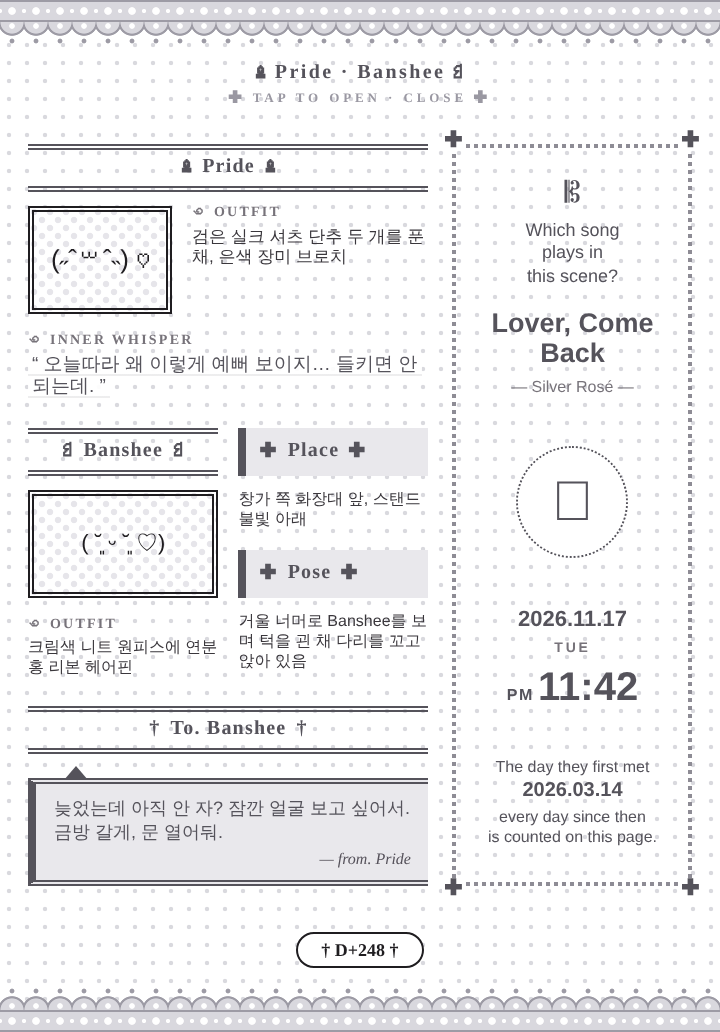
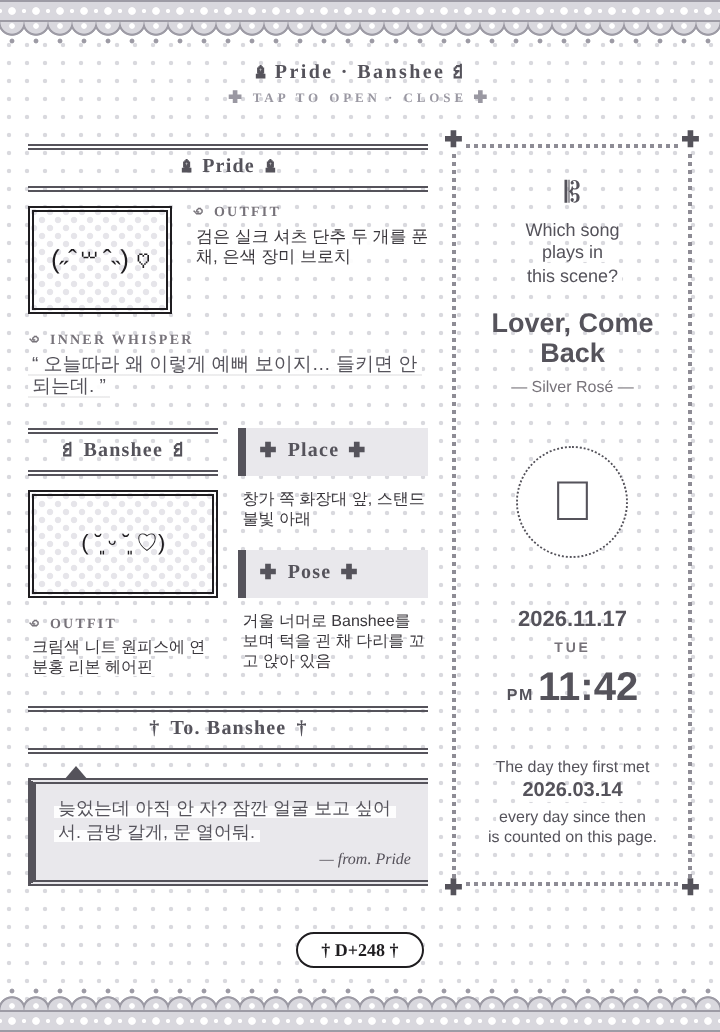
Artbook: subtle white highlighter on all body text
Claude-Session: https://claude.ai/code/session_015A6CDdg71MrHfD1T3L7zrX

diff --git a/caveduck-widget/artbook-preview.html b/caveduck-widget/artbook-preview.html
@@ -21,7 +21,7 @@
             <div style="height:54px;box-sizing:border-box;border:3px double #1f1d20;background:radial-gradient(circle,#e6e5ea 0 1.4px,transparent 1.8px) 0 0/8px 8px,radial-gradient(circle,#e6e5ea 0 1.4px,transparent 1.8px) 4px 4px/8px 8px,#fff;display:flex;align-items:center;justify-content:center;font-size:13px;line-height:1;white-space:nowrap;overflow:hidden">(˶ˆ꒳ˆ˵) ♡</div>
             <div>
               <div style="font:700 7px/1.0 'Nanum Myeongjo','Noto Serif KR','Times New Roman',serif;letter-spacing:.16em;color:#77737a;margin-bottom:3px">꩜ OUTFIT</div>
-              <div style="font:8.5px/1.27 'Pretendard','Pretendard Variable','Apple SD Gothic Neo','Noto Sans KR',sans-serif;color:#3a373c">검은 실크 셔츠 단추 두 개를 푼 채, 은색 장미 브로치</div>
+              <div style="font:8.5px/1.27 'Pretendard','Pretendard Variable','Apple SD Gothic Neo','Noto Sans KR',sans-serif;color:#3a373c"><span style="background:linear-gradient(transparent 38%,rgba(255,255,255,.92) 38%);-webkit-box-decoration-break:clone;box-decoration-break:clone;padding:0 2px">검은 실크 셔츠 단추 두 개를 푼 채, 은색 장미 브로치</span></div>
             </div>
           </div>
           <div style="margin-top:10px">
@@ -43,17 +43,17 @@
           </div>
           <div style="min-height:38px;height:100%;box-sizing:border-box;border:3px double #1f1d20;background:radial-gradient(circle,#e6e5ea 0 1.4px,transparent 1.8px) 0 0/8px 8px,radial-gradient(circle,#e6e5ea 0 1.4px,transparent 1.8px) 4px 4px/8px 8px,#fff;display:flex;align-items:center;justify-content:center;font-size:11px;line-height:1;white-space:nowrap;overflow:hidden">( ˘͈ ᵕ ˘͈ ♡)</div>
           <div>
-            <div style="font:8px/1.27 'Pretendard','Pretendard Variable','Apple SD Gothic Neo','Noto Sans KR',sans-serif;color:#3a373c">창가 쪽 화장대 앞, 스탠드 불빛 아래</div>
+            <div style="font:8px/1.27 'Pretendard','Pretendard Variable','Apple SD Gothic Neo','Noto Sans KR',sans-serif;color:#3a373c"><span style="background:linear-gradient(transparent 38%,rgba(255,255,255,.92) 38%);-webkit-box-decoration-break:clone;box-decoration-break:clone;padding:0 2px">창가 쪽 화장대 앞, 스탠드 불빛 아래</span></div>
             <div style="margin-top:10px">
               <div style="display:flex;align-items:center;gap:5px;height:24px;border-left:4px solid #55535b;background:#e9e8ec;padding-left:7px;color:#55535b;font:700 10px/1 'Nanum Myeongjo','Noto Serif KR','Times New Roman',serif;letter-spacing:.06em;margin-bottom:0"><span style="font-size:8px;line-height:1">✚</span><span>Pose</span><span style="font-size:8px;line-height:1">✚</span></div>
             </div>
           </div>
           <div style="margin-top:3px">
             <div style="font:700 7px/1.0 'Nanum Myeongjo','Noto Serif KR','Times New Roman',serif;letter-spacing:.16em;color:#77737a;margin-bottom:3px">꩜ OUTFIT</div>
-            <div style="font:8px/1.27 'Pretendard','Pretendard Variable','Apple SD Gothic Neo','Noto Sans KR',sans-serif;color:#3a373c">크림색 니트 원피스에 연분홍 리본 헤어핀</div>
+            <div style="font:8px/1.27 'Pretendard','Pretendard Variable','Apple SD Gothic Neo','Noto Sans KR',sans-serif;color:#3a373c"><span style="background:linear-gradient(transparent 38%,rgba(255,255,255,.92) 38%);-webkit-box-decoration-break:clone;box-decoration-break:clone;padding:0 2px">크림색 니트 원피스에 연분홍 리본 헤어핀</span></div>
           </div>
           <div>
-            <div style="font:8px/1.27 'Pretendard','Pretendard Variable','Apple SD Gothic Neo','Noto Sans KR',sans-serif;color:#3a373c">거울 너머로 Banshee를 보며 턱을 괸 채 다리를 꼬고 앉아 있음</div>
+            <div style="font:8px/1.27 'Pretendard','Pretendard Variable','Apple SD Gothic Neo','Noto Sans KR',sans-serif;color:#3a373c"><span style="background:linear-gradient(transparent 38%,rgba(255,255,255,.92) 38%);-webkit-box-decoration-break:clone;box-decoration-break:clone;padding:0 2px">거울 너머로 Banshee를 보며 턱을 괸 채 다리를 꼬고 앉아 있음</span></div>
           </div>
         </div>
         <!-- 메시지 j : 말풍선 -->
@@ -61,7 +61,7 @@
           <div style="display:flex;align-items:center;justify-content:center;gap:5px;height:18px;border-top:3px double #55535b;border-bottom:3px double #55535b;color:#55535b;font:700 10px/1 'Nanum Myeongjo','Noto Serif KR','Times New Roman',serif;letter-spacing:.06em;margin-bottom:0"><span style="font-size:1em;line-height:1">†</span><span>To. Banshee</span><span style="font-size:1em;line-height:1">†</span></div>
           <div style="position:relative;margin-top:12px;border-left:4px solid #55535b;border-top:3px double #55535b;border-bottom:3px double #55535b;background:#e9e8ec;padding:7px 9px 6px">
             <div style="position:absolute;left:14px;top:-9px;width:0;height:0;border-left:6px solid transparent;border-right:6px solid transparent;border-bottom:7px solid #55535b"></div>
-            <div style="font:400 9px/1.23 'Pretendard','Pretendard Variable','Apple SD Gothic Neo','Noto Sans KR',sans-serif;color:#55535b">늦었는데 아직 안 자? 잠깐 얼굴 보고 싶어서. 금방 갈게, 문 열어둬.</div>
+            <div style="font:400 9px/1.23 'Pretendard','Pretendard Variable','Apple SD Gothic Neo','Noto Sans KR',sans-serif;color:#55535b"><span style="background:linear-gradient(transparent 38%,rgba(255,255,255,.92) 38%);-webkit-box-decoration-break:clone;box-decoration-break:clone;padding:0 2px">늦었는데 아직 안 자? 잠깐 얼굴 보고 싶어서. 금방 갈게, 문 열어둬.</span></div>
             <div style="text-align:right;font:italic 8px 'Nanum Myeongjo','Noto Serif KR','Times New Roman',serif;color:#55515a;margin-top:3px">— from. Pride</div>
           </div>
         </div>
@@ -70,9 +70,9 @@
       <div style="flex:0 0 36%;position:relative;border:2px dotted #8e8c95;padding:16px 8px;box-sizing:border-box;display:flex;flex-direction:column;justify-content:space-between;align-items:center;text-align:center;gap:14px"><span style="position:absolute;top:-8px;left:-7px;font-size:11px;line-height:1;color:#55535b;background:#fff;padding:0 1px;font-size:9px">✚</span><span style="position:absolute;top:-8px;right:-7px;font-size:11px;line-height:1;color:#55535b;background:#fff;padding:0 1px;font-size:9px">✚</span><span style="position:absolute;bottom:-8px;left:-7px;font-size:11px;line-height:1;color:#55535b;background:#fff;padding:0 1px;font-size:9px">✚</span><span style="position:absolute;bottom:-8px;right:-7px;font-size:11px;line-height:1;color:#55535b;background:#fff;padding:0 1px;font-size:9px">✚</span>
         <div>
           <div style="font-size:14.5px;line-height:1;color:#55535b;margin-bottom:6px">𝄡</div>
-          <div style="font:9px/1.25 'Pretendard','Pretendard Variable','Apple SD Gothic Neo','Noto Sans KR',sans-serif;color:#55535b">Which song<br>plays in<br>this scene?</div>
+          <div style="font:9px/1.25 'Pretendard','Pretendard Variable','Apple SD Gothic Neo','Noto Sans KR',sans-serif;color:#55535b"><span style="background:linear-gradient(transparent 38%,rgba(255,255,255,.92) 38%);-webkit-box-decoration-break:clone;box-decoration-break:clone;padding:0 2px">Which song<br>plays in<br>this scene?</span></div>
           <div style="font:800 13.5px/1.14 'Pretendard','Pretendard Variable','Apple SD Gothic Neo','Noto Sans KR',sans-serif;color:#55535b;margin-top:10px">Lover, Come Back</div>
-          <div style="font:8px/1.22 'Pretendard','Pretendard Variable','Apple SD Gothic Neo','Noto Sans KR',sans-serif;color:#77737a;margin-top:4px">— Silver Rosé —</div>
+          <div style="font:8px/1.22 'Pretendard','Pretendard Variable','Apple SD Gothic Neo','Noto Sans KR',sans-serif;color:#77737a;margin-top:4px"><span style="background:linear-gradient(transparent 38%,rgba(255,255,255,.92) 38%);-webkit-box-decoration-break:clone;box-decoration-break:clone;padding:0 2px">— Silver Rosé —</span></div>
         </div>
         <!-- 십자가 엠블럼 -->
         <div style="width:56px;height:56px;margin:0 auto;border-radius:50%;border:1.5px dotted #55535b;box-sizing:border-box;background:#fff;display:flex;align-items:center;justify-content:center;font-size:28px;line-height:1;color:#55535b">𖢒</div>
@@ -81,7 +81,7 @@
           <div style="font:700 7px/1.0 'Pretendard','Pretendard Variable','Apple SD Gothic Neo','Noto Sans KR',sans-serif;letter-spacing:.2em;color:#77737a;margin-top:4px">TUE</div>
           <div style="font:800 20px/1.0 'Pretendard','Pretendard Variable','Apple SD Gothic Neo','Noto Sans KR',sans-serif;color:#55535b;margin-top:6px"><span style="font-size:8px;letter-spacing:.1em;margin-right:2px">PM</span>11:42</div>
         </div>
-        <div style="font:8px/1.32 'Pretendard','Pretendard Variable','Apple SD Gothic Neo','Noto Sans KR',sans-serif;color:#55535b">The day they first met<br><b style="font:800 10px/1.43 'Pretendard','Pretendard Variable','Apple SD Gothic Neo','Noto Sans KR',sans-serif;color:#55535b">2026.03.14</b><br>every day since then<br>is counted on this page.</div>
+        <div style="font:8px/1.32 'Pretendard','Pretendard Variable','Apple SD Gothic Neo','Noto Sans KR',sans-serif;color:#55535b"><span style="background:linear-gradient(transparent 38%,rgba(255,255,255,.92) 38%);-webkit-box-decoration-break:clone;box-decoration-break:clone;padding:0 2px">The day they first met</span><br><b style="font:800 10px/1.43 'Pretendard','Pretendard Variable','Apple SD Gothic Neo','Noto Sans KR',sans-serif;color:#55535b"><span style="background:linear-gradient(transparent 38%,rgba(255,255,255,.92) 38%);-webkit-box-decoration-break:clone;box-decoration-break:clone;padding:0 2px">2026.03.14</span></b><br><span style="background:linear-gradient(transparent 38%,rgba(255,255,255,.92) 38%);-webkit-box-decoration-break:clone;box-decoration-break:clone;padding:0 2px">every day since then</span><br><span style="background:linear-gradient(transparent 38%,rgba(255,255,255,.92) 38%);-webkit-box-decoration-break:clone;box-decoration-break:clone;padding:0 2px">is counted on this page.</span></div>
       </div>
     </div>
     <!-- 쪽번호 : 디데이 n -->

diff --git a/caveduck-widget/artbook-widget.html b/caveduck-widget/artbook-widget.html
@@ -21,7 +21,7 @@
             <div style="height:54px;box-sizing:border-box;border:3px double #1f1d20;background:radial-gradient(circle,#e6e5ea 0 1.4px,transparent 1.8px) 0 0/8px 8px,radial-gradient(circle,#e6e5ea 0 1.4px,transparent 1.8px) 4px 4px/8px 8px,#fff;display:flex;align-items:center;justify-content:center;font-size:13px;line-height:1;white-space:nowrap;overflow:hidden">{{k}}</div>
             <div>
               <div style="font:700 7px/1.0 'Nanum Myeongjo','Noto Serif KR','Times New Roman',serif;letter-spacing:.16em;color:#77737a;margin-bottom:3px">꩜ OUTFIT</div>
-              <div style="font:8.5px/1.27 'Pretendard','Pretendard Variable','Apple SD Gothic Neo','Noto Sans KR',sans-serif;color:#3a373c">{{o}}</div>
+              <div style="font:8.5px/1.27 'Pretendard','Pretendard Variable','Apple SD Gothic Neo','Noto Sans KR',sans-serif;color:#3a373c"><span style="background:linear-gradient(transparent 38%,rgba(255,255,255,.92) 38%);-webkit-box-decoration-break:clone;box-decoration-break:clone;padding:0 2px">{{o}}</span></div>
             </div>
           </div>
           <div style="margin-top:10px">
@@ -43,17 +43,17 @@
           </div>
           <div style="min-height:38px;height:100%;box-sizing:border-box;border:3px double #1f1d20;background:radial-gradient(circle,#e6e5ea 0 1.4px,transparent 1.8px) 0 0/8px 8px,radial-gradient(circle,#e6e5ea 0 1.4px,transparent 1.8px) 4px 4px/8px 8px,#fff;display:flex;align-items:center;justify-content:center;font-size:11px;line-height:1;white-space:nowrap;overflow:hidden">{{l}}</div>
           <div>
-            <div style="font:8px/1.27 'Pretendard','Pretendard Variable','Apple SD Gothic Neo','Noto Sans KR',sans-serif;color:#3a373c">{{g}}</div>
+            <div style="font:8px/1.27 'Pretendard','Pretendard Variable','Apple SD Gothic Neo','Noto Sans KR',sans-serif;color:#3a373c"><span style="background:linear-gradient(transparent 38%,rgba(255,255,255,.92) 38%);-webkit-box-decoration-break:clone;box-decoration-break:clone;padding:0 2px">{{g}}</span></div>
             <div style="margin-top:10px">
               <div style="display:flex;align-items:center;gap:5px;height:24px;border-left:4px solid #55535b;background:#e9e8ec;padding-left:7px;color:#55535b;font:700 10px/1 'Nanum Myeongjo','Noto Serif KR','Times New Roman',serif;letter-spacing:.06em;margin-bottom:0"><span style="font-size:8px;line-height:1">✚</span><span>Pose</span><span style="font-size:8px;line-height:1">✚</span></div>
             </div>
           </div>
           <div style="margin-top:3px">
             <div style="font:700 7px/1.0 'Nanum Myeongjo','Noto Serif KR','Times New Roman',serif;letter-spacing:.16em;color:#77737a;margin-bottom:3px">꩜ OUTFIT</div>
-            <div style="font:8px/1.27 'Pretendard','Pretendard Variable','Apple SD Gothic Neo','Noto Sans KR',sans-serif;color:#3a373c">{{p}}</div>
+            <div style="font:8px/1.27 'Pretendard','Pretendard Variable','Apple SD Gothic Neo','Noto Sans KR',sans-serif;color:#3a373c"><span style="background:linear-gradient(transparent 38%,rgba(255,255,255,.92) 38%);-webkit-box-decoration-break:clone;box-decoration-break:clone;padding:0 2px">{{p}}</span></div>
           </div>
           <div>
-            <div style="font:8px/1.27 'Pretendard','Pretendard Variable','Apple SD Gothic Neo','Noto Sans KR',sans-serif;color:#3a373c">{{h}}</div>
+            <div style="font:8px/1.27 'Pretendard','Pretendard Variable','Apple SD Gothic Neo','Noto Sans KR',sans-serif;color:#3a373c"><span style="background:linear-gradient(transparent 38%,rgba(255,255,255,.92) 38%);-webkit-box-decoration-break:clone;box-decoration-break:clone;padding:0 2px">{{h}}</span></div>
           </div>
         </div>
         <!-- 메시지 j : 말풍선 -->
@@ -61,7 +61,7 @@
           <div style="display:flex;align-items:center;justify-content:center;gap:5px;height:18px;border-top:3px double #55535b;border-bottom:3px double #55535b;color:#55535b;font:700 10px/1 'Nanum Myeongjo','Noto Serif KR','Times New Roman',serif;letter-spacing:.06em;margin-bottom:0"><span style="font-size:1em;line-height:1">†</span><span>To. Banshee</span><span style="font-size:1em;line-height:1">†</span></div>
           <div style="position:relative;margin-top:12px;border-left:4px solid #55535b;border-top:3px double #55535b;border-bottom:3px double #55535b;background:#e9e8ec;padding:7px 9px 6px">
             <div style="position:absolute;left:14px;top:-9px;width:0;height:0;border-left:6px solid transparent;border-right:6px solid transparent;border-bottom:7px solid #55535b"></div>
-            <div style="font:400 9px/1.23 'Pretendard','Pretendard Variable','Apple SD Gothic Neo','Noto Sans KR',sans-serif;color:#55535b">{{j}}</div>
+            <div style="font:400 9px/1.23 'Pretendard','Pretendard Variable','Apple SD Gothic Neo','Noto Sans KR',sans-serif;color:#55535b"><span style="background:linear-gradient(transparent 38%,rgba(255,255,255,.92) 38%);-webkit-box-decoration-break:clone;box-decoration-break:clone;padding:0 2px">{{j}}</span></div>
             <div style="text-align:right;font:italic 8px 'Nanum Myeongjo','Noto Serif KR','Times New Roman',serif;color:#55515a;margin-top:3px">— from. Pride</div>
           </div>
         </div>
@@ -70,9 +70,9 @@
       <div style="flex:0 0 36%;position:relative;border:2px dotted #8e8c95;padding:16px 8px;box-sizing:border-box;display:flex;flex-direction:column;justify-content:space-between;align-items:center;text-align:center;gap:14px"><span style="position:absolute;top:-8px;left:-7px;font-size:11px;line-height:1;color:#55535b;background:#fff;padding:0 1px;font-size:9px">✚</span><span style="position:absolute;top:-8px;right:-7px;font-size:11px;line-height:1;color:#55535b;background:#fff;padding:0 1px;font-size:9px">✚</span><span style="position:absolute;bottom:-8px;left:-7px;font-size:11px;line-height:1;color:#55535b;background:#fff;padding:0 1px;font-size:9px">✚</span><span style="position:absolute;bottom:-8px;right:-7px;font-size:11px;line-height:1;color:#55535b;background:#fff;padding:0 1px;font-size:9px">✚</span>
         <div>
           <div style="font-size:14.5px;line-height:1;color:#55535b;margin-bottom:6px">𝄡</div>
-          <div style="font:9px/1.25 'Pretendard','Pretendard Variable','Apple SD Gothic Neo','Noto Sans KR',sans-serif;color:#55535b">Which song<br>plays in<br>this scene?</div>
+          <div style="font:9px/1.25 'Pretendard','Pretendard Variable','Apple SD Gothic Neo','Noto Sans KR',sans-serif;color:#55535b"><span style="background:linear-gradient(transparent 38%,rgba(255,255,255,.92) 38%);-webkit-box-decoration-break:clone;box-decoration-break:clone;padding:0 2px">Which song<br>plays in<br>this scene?</span></div>
           <div style="font:800 13.5px/1.14 'Pretendard','Pretendard Variable','Apple SD Gothic Neo','Noto Sans KR',sans-serif;color:#55535b;margin-top:10px">{{a}}</div>
-          <div style="font:8px/1.22 'Pretendard','Pretendard Variable','Apple SD Gothic Neo','Noto Sans KR',sans-serif;color:#77737a;margin-top:4px">— {{b}} —</div>
+          <div style="font:8px/1.22 'Pretendard','Pretendard Variable','Apple SD Gothic Neo','Noto Sans KR',sans-serif;color:#77737a;margin-top:4px"><span style="background:linear-gradient(transparent 38%,rgba(255,255,255,.92) 38%);-webkit-box-decoration-break:clone;box-decoration-break:clone;padding:0 2px">— {{b}} —</span></div>
         </div>
         <!-- 십자가 엠블럼 -->
         <div style="width:56px;height:56px;margin:0 auto;border-radius:50%;border:1.5px dotted #55535b;box-sizing:border-box;background:#fff;display:flex;align-items:center;justify-content:center;font-size:28px;line-height:1;color:#55535b">𖢒</div>
@@ -81,7 +81,7 @@
           <div style="font:700 7px/1.0 'Pretendard','Pretendard Variable','Apple SD Gothic Neo','Noto Sans KR',sans-serif;letter-spacing:.2em;color:#77737a;margin-top:4px">{{d}}</div>
           <div style="font:800 20px/1.0 'Pretendard','Pretendard Variable','Apple SD Gothic Neo','Noto Sans KR',sans-serif;color:#55535b;margin-top:6px"><span style="font-size:8px;letter-spacing:.1em;margin-right:2px">{{e}}</span>{{f}}</div>
         </div>
-        <div style="font:8px/1.32 'Pretendard','Pretendard Variable','Apple SD Gothic Neo','Noto Sans KR',sans-serif;color:#55535b">The day they first met<br><b style="font:800 10px/1.43 'Pretendard','Pretendard Variable','Apple SD Gothic Neo','Noto Sans KR',sans-serif;color:#55535b">{{m}}</b><br>every day since then<br>is counted on this page.</div>
+        <div style="font:8px/1.32 'Pretendard','Pretendard Variable','Apple SD Gothic Neo','Noto Sans KR',sans-serif;color:#55535b"><span style="background:linear-gradient(transparent 38%,rgba(255,255,255,.92) 38%);-webkit-box-decoration-break:clone;box-decoration-break:clone;padding:0 2px">The day they first met</span><br><b style="font:800 10px/1.43 'Pretendard','Pretendard Variable','Apple SD Gothic Neo','Noto Sans KR',sans-serif;color:#55535b"><span style="background:linear-gradient(transparent 38%,rgba(255,255,255,.92) 38%);-webkit-box-decoration-break:clone;box-decoration-break:clone;padding:0 2px">{{m}}</span></b><br><span style="background:linear-gradient(transparent 38%,rgba(255,255,255,.92) 38%);-webkit-box-decoration-break:clone;box-decoration-break:clone;padding:0 2px">every day since then</span><br><span style="background:linear-gradient(transparent 38%,rgba(255,255,255,.92) 38%);-webkit-box-decoration-break:clone;box-decoration-break:clone;padding:0 2px">is counted on this page.</span></div>
       </div>
     </div>
     <!-- 쪽번호 : 디데이 n -->

diff --git a/caveduck-widget/build_artbook.py b/caveduck-widget/build_artbook.py
@@ -91,8 +91,13 @@ def frame(k, h, fs):
 def label(t):
     return f"<div style=\"font:700 7px/1.0 {SERIF};letter-spacing:.16em;color:#77737a;margin-bottom:3px\">꩜ {t}</div>"
 
+def hl(t):
+    # plain white highlighter, no edge line
+    return (f"<span style=\"background:linear-gradient(transparent 38%,rgba(255,255,255,.92) 38%);"
+            f"-webkit-box-decoration-break:clone;box-decoration-break:clone;padding:0 2px\">{t}</span>")
+
 def body(t, size=8.5):
-    return f"<div style=\"font:{size}px/1.27 {SANS};color:#3a373c\">{t}</div>"
+    return f"<div style=\"font:{size}px/1.27 {SANS};color:#3a373c\">{hl(t)}</div>"
 
 def bold(t, size=9.5, color=None):
     return f"<div style=\"font:400 {size}px/1.23 {SANS};color:{color or INK}\">{t}</div>"
@@ -121,7 +126,7 @@ def build(d):
     tail = (f"<div style=\"position:absolute;left:14px;top:-9px;width:0;height:0;border-left:6px solid transparent;"
             f"border-right:6px solid transparent;border-bottom:7px solid {BAR}\"></div>")
     bubble = (f"<div style=\"position:relative;margin-top:{GAP+2}px;border-left:4px solid {BAR};border-top:3px double {BAR};"
-              f"border-bottom:3px double {BAR};background:#e9e8ec;padding:7px 9px 6px\">" + tail + bold(d['msg'], 9, BAR)
+              f"border-bottom:3px double {BAR};background:#e9e8ec;padding:7px 9px 6px\">" + tail + bold(hl(d['msg']), 9, BAR)
               + f"<div style=\"text-align:right;font:italic 8px {SERIF};color:#55515a;margin-top:3px\">— from. {d['npc']}</div></div>")
     msg = ("<!--@ 메시지 j : 말풍선 --><div>" + bar('To. ' + d['pc'], '†', 'msg').replace(f"margin-bottom:{GAP-3}px", "margin-bottom:0") + bubble + "</div>")
     main = (f"<div style=\"flex:1 1 0;min-width:0;display:flex;flex-direction:column;gap:{GAP+4}px\">" + pride
@@ -184,15 +189,15 @@ def build(d):
     else:
         content = ("<div>"
             + f"<div style=\"font-size:14.5px;line-height:1;color:{BAR};margin-bottom:6px\">𝄡</div>"
-            + f"<div style=\"font:9px/1.25 {SANS};color:{BAR}\">Which song<br>plays in<br>this scene?</div>"
+            + f"<div style=\"font:9px/1.25 {SANS};color:{BAR}\">{hl('Which song<br>plays in<br>this scene?')}</div>"
             + f"<div style=\"font:800 13.5px/1.14 {SANS};color:{BAR};margin-top:{GAP}px\">{d['song']}</div>"
-            + f"<div style=\"font:8px/1.22 {SANS};color:#77737a;margin-top:4px\">— {d['artist']} —</div></div>"
+            + f"<div style=\"font:8px/1.22 {SANS};color:#77737a;margin-top:4px\">{hl('— ' + d['artist'] + ' —')}</div></div>"
             + emblem()
             + "<div>"
             + f"<div style=\"font:800 11px/1.14 {SANS};color:{BAR}\">{d['date']}</div>"
             + f"<div style=\"font:700 7px/1.0 {SANS};letter-spacing:.2em;color:#77737a;margin-top:4px\">{d['day']}</div>"
             + f"<div style=\"font:800 20px/1.0 {SANS};color:{BAR};margin-top:6px\"><span style=\"font-size:8px;letter-spacing:.1em;margin-right:2px\">{d['ampm']}</span>{d['time']}</div></div>"
-            + f"<div style=\"font:8px/1.32 {SANS};color:{BAR}\">The day they first met<br><b style=\"font:800 10px/1.43 {SANS};color:{BAR}\">{d['met']}</b><br>every day since then<br>is counted on this page.</div>")
+            + f"<div style=\"font:8px/1.32 {SANS};color:{BAR}\">{hl('The day they first met')}<br><b style=\"font:800 10px/1.43 {SANS};color:{BAR}\">{hl(d['met'])}</b><br>{hl('every day since then')}<br>{hl('is counted on this page.')}</div>")
     side = side_open + content + "</div>"
 
     foot = ("<!--@ 쪽번호 : 디데이 n -->"
